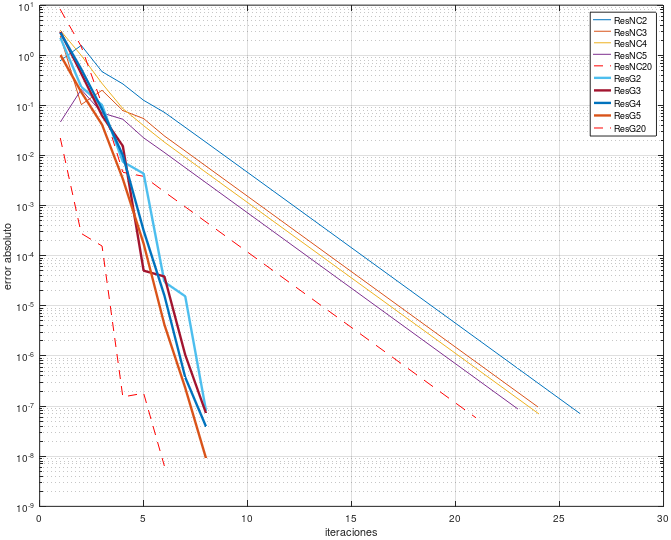
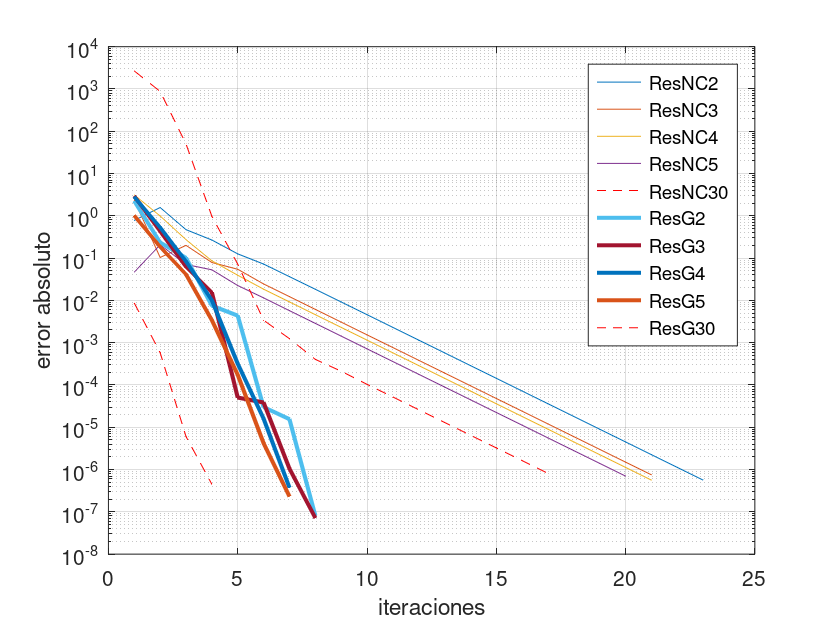
.

diff --git a/Entregable 3/main.tex b/Entregable 3/main.tex
@@ -77,43 +77,44 @@
         S_x(t)=
         \begin{cases}
             a_0 + b_0t + c_0t^2 + d_0t^3 & t_0 \leq t \leq t_1 \\
-            a_1 + b_1t + c_1t^2 + d_1t^3 & t_1 < t \leq t_2 \\
+            a_1 + b_1(t-t_1) + c_1(t-t_1)^2 + d_1(t_1)^3 & t_1 < t \leq t_2 \\
             .\\
             .\\
             .\\
-            a_{n-1} + b_{n-1}t + c_{n-1}t^2 + d_{n-1}t^3 & t_{n-1} < t \leq t_n
+            a_{n-1} + b_{n-1}?(t-t_{n-1}) + c_{n-1}(t_{n-1})^2 + d_{n-1}(t_{n-1})^3 & t_{n-1} < t \leq t_n
         \end{cases}
     \end{equation*}
+    \indent Donde los coeficientes calculados a partir de las condiciones dadas anteriormente son mostrados en las tablas\\
     \indent Vemos que además es fácilmente calculable su derivada, la cual usaremos para calcular la distancia más adelante.
-    \\\\
-    \indent Extendiendo la tabla anterior, podemos visualizar toda la información de la siguiente forma:\\
     \begin{table}[h]
         \centering
-        \begin{tabular}{|c|c|c|c|c|}
+        \begin{tabular}{|l|l|l|l|l|}
             \hline
-            t[s] & Posición x[cm] & Posición y[cm] & Velocidad x'[cm/s] & Velocidad y'[cm/s] \\
-            \hline
-            0 & 2.0 & 0.0 & 0.0 & \(\frac{\pi}{2}\) \\
-            \hline
-            1 & - & 1.0 & - & -\\
-            \hline
-            2 & 1.5 & 0.0 & - & -\\
-            \hline
-            3 & - & -1.0 & - & -\\
-            \hline
-            4 & 0.5 & 0.0 & - & -\\
-            \hline
-            5 & - & 1.0 & - & -\\
-            \hline
-            6 & 0.0 & 0.0 & 0.0 & \(-\frac{\pi}{2}\) \\
-            \hline
+            \multicolumn{1}{|c|}{\textbf{Intervalo}} & \multicolumn{1}{c|}{\textbf{ax}} & \multicolumn{1}{c|}{\textbf{bx}} & \textbf{cy} & \textbf{dx} \\ \hline
+            {[}0,2{]}                                & 2                                  & 0                                  & -0.15         & 0.0125        \\ \hline
+            {[}2,4{]}                                & 1.5                                & -0.45                              & -0.075        & 0.025         \\ \hline
+            {[}4,6{]}                                & 0.5                                & -0.45                              & 0.075         & 0.0125        \\ \hline
         \end{tabular}
-        \caption{Valores sensados.}
+        \caption{Coeficientes de la Spline interpolante de x}
+        \label{Tabla}
+    \end{table}
+    \begin{table}[h]
+        \centering
+        \begin{tabular}{|l|l|l|l|l|}
+            \hline
+            \multicolumn{1}{|c|}{\textbf{Intervalo}} & \multicolumn{1}{c|}{\textbf{ay}} & \multicolumn{1}{c|}{\textbf{by}} & \textbf{cy} & \textbf{dy} \\ \hline
+            {[}0,1{]}                                & 0                                  & 1.57079                            & -0.12271      & -0.44808      \\ \hline
+            {[}1,2{]}                                & 1                                  & -0.01887                           & -1.46696      & 0.48584       \\ \hline
+            {[}2,3{]}                                & 0                                  & -1.49528                           & -0.00943      & 0.50471       \\ \hline
+            {[}3,4{]}                                & -1                                 & 0                                  & 1.50471       & -0.50471      \\ \hline
+            {[}4,5{]}                                & 0                                  & 1.49528                            & -0.00943      & -0.48584      \\ \hline
+            {[}5,6{]}                                & 1                                  & 0.01887                            & -1.46696      & 0.44808       \\ \hline
+        \end{tabular}
+        \caption{Coeficientes de la Spline interpolante de y}
         \label{Tabla}
     \end{table}
 
-    \indent A partir de estos datos, utilizando la función \(funcion\_spline\), obtendremos la función correspondiente al Spline Cúbico tanto de \(x(t)\) e \(y(t)\) como de sus primeras derivadas, los cuales nos servirán para graficar la trayectoria de la partícula y evaluar su posición y velocidad.
-    \indent Evaluando su posición y vector velocidad a los 3 segundos \((t=3 s))\) obtenemos\\
+    \indent A partir de estos datos, utilizando la función \(funcion\_spline\), obtendremos la función correspondiente al Spline Cúbico tanto de \(x(t)\) e \(y(t)\) como de sus primeras derivadas, los cuales nos servirán para graficar la trayectoria de la partícula y evaluar su posición y velocidad a los 3 segundos.
     \begin{equation*}
         P(3) = (1; -0.9999999999999999), \\
         \indent v(3) = (-0.525; 2.220446049250313*10^{-16})
@@ -145,7 +146,7 @@
     Para calcular la distancia recorrida por la partícula en los \(6 segundos\) utilizaremos el método de fórmulas de Newton-Cotes y el método de Cuadraturas de Gauss con polinomios de Legendre.\\
     \indent El primero consiste en tomar \(n+1\) nodos \(x_i=x_0+ih\) para \(i=0,1,...,n\) donde \(x_0=a\), \(x_n=b\) y \(h=(b-a)/n\) equidistantes dentro del intervalo y construir un polinomio de Lagrange a partir de estos nodos, para luego aproximar la integral a partir de la integral de este polinomio en el intervalo.\\
     \indent El método de Cuadraturas de Gauss con Polinomios se basa en polinomios ortogonales, en este caso específico los de Legendre, los cuales están definidos en el dominio \([-1,1]\). El mismo encuentra tanto los puntos como los pesos para la evaluación en esos puntos que generen la mejor aproximación. Para los primero, utiliza las raíces de los polinomios ortogonales, y los pesos son determinados a partir de propiedades de los mismos.\\
-    \indent Si dividimos el intervalo en L subintervalos y aplicamos estos métodos en cada uno de ellos, podemos obtener una mejor aproximación. Veremos cuántos subintervalos se requieren para lograr 6 dígitos exactos en la integral, empezando desde \(L=1\) intervalos y duplicando en cada iteración, hasta que la diferencia absoluta con la iteración anterior sea menor a \(1*10^{-7}\)\\\\\\\\
+    \indent Si dividimos el intervalo en L subintervalos y aplicamos estos métodos en cada uno de ellos, podemos obtener una mejor aproximación. Veremos cuántos subintervalos se requieren para lograr 6 dígitos exactos en la integral, empezando desde \(L=1\) intervalos y duplicando en cada iteración, hasta que la diferencia absoluta con la iteración anterior sea menor a \(1*10^{-6}\)\\\\\\\\
     \begin{figure}[h]
         \centering
         \begin{subfigure}{0.49\textwidth}
@@ -160,22 +161,22 @@
         \caption{Gráficas de los polinomios interpolantes de Newton-Cotes en 8 tramos (\subref{fig:3a}) y la curva del error desde \(L=2\) (\subref{fig:3b}).}
         \label{fig3}
     \end{figure}
-    \indent A partir de estos métodos estimamos una distancia recorrida por la partícula de \(\int_{0}^{T} \sqrt{x_1'(t)^2+x_2'(t)^2}dt=\textbf{6.514997}\)
+    \indent A partir de estos métodos estimamos una distancia recorrida por la partícula (con seis dígitos exactos) de \(\int_{0}^{T} \sqrt{x_1'(t)^2+x_2'(t)^2}dt=\textbf{6.51499}\)
     \begin{table}[h]
         \centering
         \begin{tabular}{|l|l|l|}
             \hline
             \textbf{Método} & \textbf{tiempo{[}s{]}} & \textbf{L} \\ \hline
-            NC n=2          & 124.7712018489838      & 67108864   \\ \hline
-            NC n=3          & 43.19980502128601      & 16777216   \\ \hline
-            NC n=4          & 57.75703001022339      & 16777216   \\ \hline
-            NC n=5          & 35.19215083122253      & 8388608    \\ \hline
-            NC n=20         & 36.19845604896545      & 2097152    \\ \hline
-            Gauss-L n=2     & 0.6471190452575684     & 256        \\ \hline
-            Gauss-L n=3     & 0.6503341197967529     & 256        \\ \hline
-            Gauss-L n=4     & 0.6206791400909424     & 256        \\ \hline
-            Gauss-L n=5     & 0.6107208728790283     & 256        \\ \hline
-            Gauss-L n=20    & 0.1515882015228271     & 64         \\ \hline
+            NC n=2          & 45.34706783294678      & 8388608   \\ \hline
+            NC n=3          & 16.92670297622681      & 2097152   \\ \hline
+            NC n=4          & 22.4292459487915       & 2097152   \\ \hline
+            NC n=5          & 14.13392615318298      & 1048576    \\ \hline
+            NC n=30         & 10.41877818107605      & 131072    \\ \hline
+            Gauss-L n=2     & 2.973474025726318      & 256        \\ \hline
+            Gauss-L n=3     & 2.928060054779053      & 256        \\ \hline
+            Gauss-L n=4     & 1.54735803604126       & 128        \\ \hline
+            Gauss-L n=5     & 1.502454042434692      & 128        \\ \hline
+            Gauss-L n=30    & 0.2123258113861084     & 16         \\ \hline
         \end{tabular}
         \caption{Resultados de distintos métodos de integración numérica.}
         \label{Tabla}
@@ -183,7 +184,7 @@
     \section{Conclusiones}
     Se comprobó a través de estos pasos que la interpolación por Splines Cúbicos genera no solo una curva considerablemente suave a partir de pocos datos de entrada, sino también que a partir de esta podemos aproximar el comportamiento de las componentes de la posición por separado, y que la curva que generarán ambas también será suave.\\
     \indent Además, vemos que por este método también obtenemos una expresión para las derivadas de las componente, a partir de las cuales podemos evaluar la velocidad instantánea de la partícula, además de usarla para estimar las distancia recorrida por la misma.\\
-    \indent Respecto a la estimación de la distancia, la cual requiere el cálculo de una integral, observamos una diferencia considerable en el tiempo de cómputo requerido por cada método para llegar a la precisión requerida. En el caso de las fórmulas de Newton-Cotes, se logra una mejora considerable al aumentar el grado de los polinomios interpolantes, aunque al usar una cantidad mayor de nodos no necesariamente mejoraremos el método, debido a la cantidad de evaluaciones requeridas y a la naturaleza oscilante de los polinomios. En el caso de el método de Cuadratura de Gauss este parámetro no genera gran diferencia en el tiempo de cómputo, debido a que aumentan la cantidad de evaluaciones de la función.
+    \indent Respecto a la estimación de la distancia, la cual requiere el cálculo de una integral, observamos una diferencia considerable en el tiempo de cómputo requerido por cada método para llegar a la precisión requerida. En el caso de las fórmulas de Newton-Cotes, se logra una mejora considerable al aumentar el grado de los polinomios interpolantes, aunque al considerablemente la cantidad de nodos no necesariamente mejoraremos el método de forma considerable, debido a la cantidad de evaluaciones requeridas y a la naturaleza oscilante de los polinomios, además de disminuir la estabilidad (esto lo podemos ver en la curva del residuo). En el caso de el método de Cuadratura de Gauss este parámetro no genera gran diferencia en el tiempo de cómputo, debido a que aumentan la cantidad de evaluaciones de la función.
 
     \section{Scripts Utilizados}
     \subsection{Script Cliente}
@@ -204,8 +205,13 @@
     dyn = -pi/2;
     
     % - a) Interpolacion
+    disp("========================================")
     [x,dx] = funcion_spline(tx,posx,0,0);   %velocidad inicial y final nulas en x
+    [a_x,b_x,c_x,d_x] = cubic_spline_clamped(tx,posx,0,0)
+    disp("========================================")
     [y,dy] = funcion_spline(ty,posy,pi/2,-pi/2);
+    [a_y,b_y,c_y,d_y] = cubic_spline_clamped(ty,posy,pi/2,-pi/2)
+    disp("========================================")
     
     % - b) Grafica
       % x(t) y dx(t)
@@ -235,7 +241,7 @@
     
     figure(2);
       % y(t) y dy(t)
-    t = linspace(0.001,1,50);
+    t = linspace(0,1,50);
     plot(t,y(t),'-r', 'linewidth',2);
     hold on;
     plot(t,dy(t),'-r');
@@ -333,7 +339,7 @@
     legend('integrando','NC orden 1','NC orden 2','NC orden 3','NC orden 4');
     
     % Calculo de la integral
-    tolerancia = 1e-7;
+    tolerancia = 1e-6;
     maxit = 30;
     
     [INC2,itNC2,rNC2,tNC2,LNC2] = intNC(integrando,0,6,2,tolerancia,maxit);
@@ -360,11 +366,11 @@
     tNC5
     LNC5
     
-    [INC20,itNC20,rNC20,tNC20,LNC20] = intNC(integrando,0,6,20,tolerancia,maxit);
-    INC20
-    itNC20
-    tNC20
-    LNC20
+    [INC30,itNC30,rNC30,tNC30,LNC30] = intNC(integrando,0,6,30,tolerancia,maxit);
+    INC30
+    itNC30
+    tNC30
+    LNC30
     disp("===================================");
     
     [IG2,itG2,rG2,tG2,LG2] = intGauss(integrando,0,6,2,tolerancia,maxit);
@@ -391,11 +397,11 @@
     tG5
     LG5
     
-    [IG20,itG20,rG20,tG20,LG20] = intGauss(integrando,0,6,20,tolerancia,maxit);
-    IG20
-    itG20
-    tG20
-    LG20
+    [IG30,itG30,rG30,tG30,LG30] = intGauss(integrando,0,6,30,tolerancia,maxit);
+    IG30
+    itG30
+    tG30
+    LG30
     
     % Graficar residuos
     figure(5);
@@ -404,13 +410,13 @@
     semilogy(rNC3);
     semilogy(rNC4);
     semilogy(rNC5);
-    semilogy(rNC20,'color','r','linestyle','--');
+    semilogy(rNC30,'color','r','linestyle','--');
     semilogy(rG2,'linewidth',2);
     semilogy(rG3,'linewidth',2);
     semilogy(rG4,'linewidth',2);
     semilogy(rG5,'linewidth',2);
-    semilogy(rG20,'color','r','linestyle','--');
-    legend('ResNC2', 'ResNC3', 'ResNC4', 'ResNC5', 'ResNC20', 'ResG2', 'ResG3', 'ResG4', 'ResG5', 'ResG20');
+    semilogy(rG30,'color','r','linestyle','--');
+    legend('ResNC2', 'ResNC3', 'ResNC4', 'ResNC5', 'ResNC30', 'ResG2', 'ResG3', 'ResG4', 'ResG5', 'ResG30');
     xlabel('iteraciones');
     ylabel('error absoluto');
     \end{lstlisting}

diff --git a/Entregable 3/ScriptEntregable.m b/Entregable 3/ScriptEntregable.m
@@ -14,8 +14,13 @@ dy0 = pi/2;
 dyn = -pi/2;
 
 % - a) Interpolacion
+disp("========================================")
 [x,dx] = funcion_spline(tx,posx,0,0);   %velocidad inicial y final nulas en x
+[a_x,b_x,c_x,d_x] = cubic_spline_clamped(tx,posx,0,0)
+disp("========================================")
 [y,dy] = funcion_spline(ty,posy,pi/2,-pi/2);
+[a_y,b_y,c_y,d_y] = cubic_spline_clamped(ty,posy,pi/2,-pi/2)
+disp("========================================")
 
 % - b) Grafica
   % x(t) y dx(t)
@@ -45,7 +50,7 @@ plot(6,0,'color','g','markersize',15,'displayname','dx/dt(6)');
 
 figure(2);
   % y(t) y dy(t)
-t = linspace(0.001,1,50);
+t = linspace(0,1,50);
 plot(t,y(t),'-r', 'linewidth',2);
 hold on;
 plot(t,dy(t),'-r');
@@ -143,7 +148,7 @@ endfor
 legend('integrando','NC orden 1','NC orden 2','NC orden 3','NC orden 4');
 
 % Calculo de la integral
-tolerancia = 1e-7;
+tolerancia = 1e-6;
 maxit = 30;
 
 [INC2,itNC2,rNC2,tNC2,LNC2] = intNC(integrando,0,6,2,tolerancia,maxit);
@@ -170,11 +175,11 @@ itNC5
 tNC5
 LNC5
 
-[INC20,itNC20,rNC20,tNC20,LNC20] = intNC(integrando,0,6,20,tolerancia,maxit);
-INC20
-itNC20
-tNC20
-LNC20
+[INC30,itNC30,rNC30,tNC30,LNC30] = intNC(integrando,0,6,30,tolerancia,maxit);
+INC30
+itNC30
+tNC30
+LNC30
 disp("===================================");
 
 [IG2,itG2,rG2,tG2,LG2] = intGauss(integrando,0,6,2,tolerancia,maxit);
@@ -201,11 +206,11 @@ itG5
 tG5
 LG5
 
-[IG20,itG20,rG20,tG20,LG20] = intGauss(integrando,0,6,20,tolerancia,maxit);
-IG20
-itG20
-tG20
-LG20
+[IG30,itG30,rG30,tG30,LG30] = intGauss(integrando,0,6,30,tolerancia,maxit);
+IG30
+itG30
+tG30
+LG30
 
 % Graficar residuos
 figure(5);
@@ -214,12 +219,12 @@ hold on;
 semilogy(rNC3);
 semilogy(rNC4);
 semilogy(rNC5);
-semilogy(rNC20,'color','r','linestyle','--');
+semilogy(rNC30,'color','r','linestyle','--');
 semilogy(rG2,'linewidth',2);
 semilogy(rG3,'linewidth',2);
 semilogy(rG4,'linewidth',2);
 semilogy(rG5,'linewidth',2);
-semilogy(rG20,'color','r','linestyle','--');
-legend('ResNC2', 'ResNC3', 'ResNC4', 'ResNC5', 'ResNC20', 'ResG2', 'ResG3', 'ResG4', 'ResG5', 'ResG20');
+semilogy(rG30,'color','r','linestyle','--');
+legend('ResNC2', 'ResNC3', 'ResNC4', 'ResNC5', 'ResNC30', 'ResG2', 'ResG3', 'ResG4', 'ResG5', 'ResG30');
 xlabel('iteraciones');
 ylabel('error absoluto');
